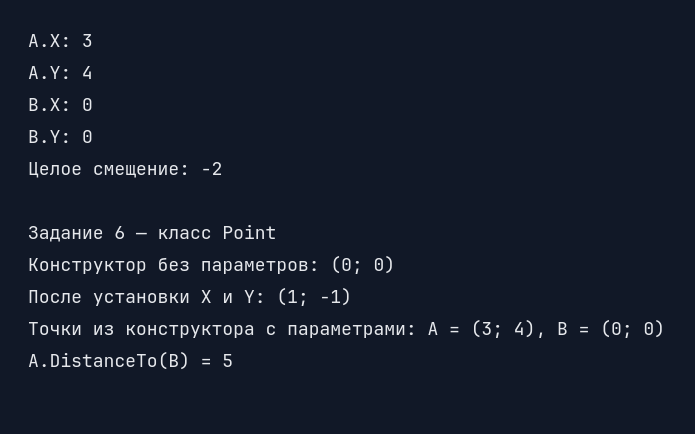
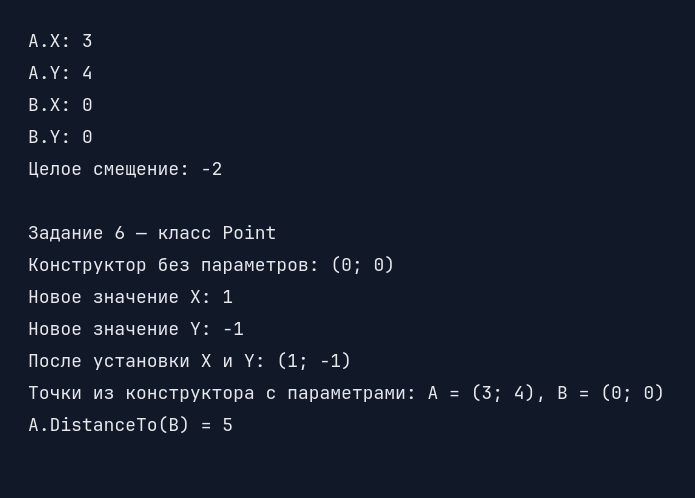
removed not needed

diff --git a/CSharpLabs/Lab4/Lab4.cs b/CSharpLabs/Lab4/Lab4.cs
@@ -1,4 +1,3 @@
-using System.Text;
 using CSharpLabs.Common;
 
 namespace CSharpLabs.Lab4;
@@ -16,9 +15,8 @@ internal static class Lab4
             Console.WriteLine("3 — Заказы посетителей кафе");
             Console.WriteLine("4 — Согласные, встречающиеся в одном слове");
             Console.WriteLine("5 — Лучшие участники многоборья");
-            Console.WriteLine("6 — Примеры заданий 1–5");
             Console.WriteLine("0 — Назад");
-            int choice = ConsoleInput.ReadInt("Выберите пункт: ", 0, 6);
+            int choice = ConsoleInput.ReadInt("Выберите пункт: ", 0, 5);
 
             if (choice == 0)
             {
@@ -27,17 +25,7 @@ internal static class Lab4
 
             try
             {
-                if (choice == 6)
-                {
-                    for (int task = 1; task <= 5; task++)
-                    {
-                        RunTask(task, true);
-                    }
-                }
-                else
-                {
-                    RunTask(choice, false);
-                }
+                RunTask(choice);
             }
             catch (Exception error) when (IsRecoverable(error))
             {
@@ -48,34 +36,34 @@ internal static class Lab4
         }
     }
 
-    private static void RunTask(int task, bool example)
+    private static void RunTask(int task)
     {
         Console.WriteLine($"\nЗадание {task}, вариант 3");
 
         switch (task)
         {
             case 1:
-                RunSortedLists(example);
+                RunSortedLists();
                 break;
             case 2:
-                RunEqualNeighbors(example);
+                RunEqualNeighbors();
                 break;
             case 3:
-                RunCafe(example);
+                RunCafe();
                 break;
             case 4:
-                RunConsonants(example);
+                RunConsonants();
                 break;
             case 5:
-                RunSports(example);
+                RunSports();
                 break;
         }
     }
 
-    private static void RunSortedLists(bool example)
+    private static void RunSortedLists()
     {
-        List<int> first = example ? new List<int> { -2, 1, 1, 5 } : ReadNumbers("L1", true);
-        List<int> second = example ? new List<int> { -3, 1, 4, 9 } : ReadNumbers("L2", true);
+        List<int> first = ReadNumbers("L1", true);
+        List<int> second = ReadNumbers("L2", true);
 
         PrintGroup("L1", first);
         PrintGroup("L2", second);
@@ -83,11 +71,9 @@ internal static class Lab4
         PrintGroup("После слияния", first);
     }
 
-    private static void RunEqualNeighbors(bool example)
+    private static void RunEqualNeighbors()
     {
-        LinkedList<int> list = example
-            ? new LinkedList<int>(new[] { 1, 2, 1, 2, 1 })
-            : new LinkedList<int>(ReadNumbers("L", false));
+        LinkedList<int> list = new LinkedList<int>(ReadNumbers("L", false));
 
         PrintGroup("L", list);
         Console.WriteLine($"Количество элементов с равными соседями: {CollectionTasks.CountEqualNeighbors(list)}");
@@ -135,26 +121,11 @@ internal static class Lab4
         }
     }
 
-    private static void RunCafe(bool example)
+    private static void RunCafe()
     {
         StringComparer comparer = StringComparer.OrdinalIgnoreCase;
-        List<string> menu;
-        List<HashSet<string>> orders;
-
-        if (example)
-        {
-            menu = new List<string> { "Борщ", "Салат", "Компот" };
-            orders = new List<HashSet<string>>
-            {
-                new HashSet<string>(comparer) { "Борщ", "Салат" },
-                new HashSet<string>(comparer) { "борщ" }
-            };
-        }
-        else
-        {
-            menu = ReadCafeMenu(comparer);
-            orders = ReadCafeOrders(new HashSet<string>(menu, comparer), comparer);
-        }
+        List<string> menu = ReadCafeMenu(comparer);
+        List<HashSet<string>> orders = ReadCafeOrders(new HashSet<string>(menu, comparer), comparer);
 
         PrintGroup("Меню", menu);
 
@@ -218,27 +189,10 @@ internal static class Lab4
         return orders;
     }
 
-    private static void RunConsonants(bool example)
+    private static void RunConsonants()
     {
-        if (!example)
-        {
-            PrintConsonants(ConsoleInput.ReadRequiredText("Путь к текстовому файлу: "));
-            return;
-        }
-
-        const string sample = "Кукушка, кот и ёж.";
-        string path = Path.GetTempFileName();
-
-        try
-        {
-            File.WriteAllText(path, sample, Encoding.UTF8);
-            Console.WriteLine(sample);
-            PrintConsonants(path);
-        }
-        finally
-        {
-            File.Delete(path);
-        }
+        string path = ConsoleInput.ReadRequiredText("Путь к текстовому файлу: ");
+        PrintConsonants(path);
     }
 
     private static void PrintConsonants(string path)
@@ -246,9 +200,9 @@ internal static class Lab4
         PrintGroup("Согласные ровно в одном слове", CollectionTasks.FindConsonantsInOneWord(path));
     }
 
-    private static void RunSports(bool example)
+    private static void RunSports()
     {
-        string? existingPath = example ? null : ConsoleInput.ReadOptionalText("Путь к файлу результатов (Enter — ввести с клавиатуры): ");
+        string? existingPath = ConsoleInput.ReadOptionalText("Путь к файлу результатов (Enter — ввести с клавиатуры): ");
 
         if (existingPath is not null)
         {
@@ -256,7 +210,7 @@ internal static class Lab4
             return;
         }
 
-        List<string> participants = example ? CreateExampleParticipants() : ReadParticipants();
+        List<string> participants = ReadParticipants();
 
         string path = Path.GetTempFileName();
 
@@ -264,29 +218,12 @@ internal static class Lab4
         {
             CollectionTasks.FillSportsFile(path, participants);
 
-            if (example)
-            {
-                Console.WriteLine(File.ReadAllText(path));
-            }
-
             PrintGroup("Лучшие участники", CollectionTasks.FindBestAthletes(path));
         }
         finally
         {
             File.Delete(path);
         }
-    }
-
-    private static List<string> CreateExampleParticipants()
-    {
-        return new List<string>
-        {
-            "Петров Сергей 9 9 5 7",
-            "Сидорова Анна 8 8 7 5",
-            "Иванова Мария 5 8 6 3",
-            "Смирнов Павел 4 6 4 8",
-            "Орлова Вера 1 2 3 4"
-        };
     }
 
     private static List<string> ReadParticipants()

diff --git a/Lab4.Points/Program.cs b/Lab4.Points/Program.cs
@@ -14,31 +14,17 @@ internal static class Program
                 ConsoleInput.ClearScreen();
                 Console.WriteLine("Лабораторная работа №4 — вариант 3, задания 6–7");
                 Console.WriteLine("1 — Ввести точки");
-                Console.WriteLine("2 — Запустить пример");
                 Console.WriteLine("0 — Выход");
-                int choice = ConsoleInput.ReadInt("Выберите пункт: ", 0, 2);
+                int choice = ConsoleInput.ReadInt("Выберите пункт: ", 0, 1);
 
                 if (choice == 0)
                 {
                     return;
                 }
 
-                Point a;
-                Point b;
-                int offset;
-
-                if (choice == 2)
-                {
-                    a = new Point(-2.75, 2);
-                    b = new Point(0.25, 6);
-                    offset = 3;
-                }
-                else
-                {
-                    a = ReadPoint("A");
-                    b = ReadPoint("B");
-                    offset = ConsoleInput.ReadInt("Целое смещение: ", int.MinValue, int.MaxValue);
-                }
+                Point a = ReadPoint("A");
+                Point b = ReadPoint("B");
+                int offset = ConsoleInput.ReadInt("Целое смещение: ", int.MinValue, int.MaxValue);
 
                 PrintPointDetails(a, b);
                 PrintOperatorResults(a, b, offset);
@@ -82,8 +68,8 @@ internal static class Program
         Point origin = new Point();
         Console.WriteLine("\nЗадание 6 — класс Point");
         Console.WriteLine($"Конструктор без параметров: {origin}");
-        origin.X = 1;
-        origin.Y = -1;
+        origin.X = ReadCoordinate("Новое значение X: ");
+        origin.Y = ReadCoordinate("Новое значение Y: ");
         Console.WriteLine($"После установки X и Y: {origin}");
         Console.WriteLine($"Точки из конструктора с параметрами: A = {a}, B = {b}");
         Console.WriteLine($"A.DistanceTo(B) = {a.DistanceTo(b)}");

diff --git a/labs/Lab4/Отчёт_ЛР4.md b/labs/Lab4/Отчёт_ЛР4.md
@@ -8,45 +8,35 @@
 
 | Задание | Решение | Пример |
 | --- | --- | --- |
-| 1. `List` | Два индекса последовательно обходят отсортированные списки. На каждом шаге в результат добавляется меньший из текущих элементов. После слияния результат заменяет содержимое `L1`. Повторы сохраняются. Время `O(n + m)`. | `[-2, 1, 1, 5]` и `[-3, 1, 4, 9]` → `[-3, -2, 1, 1, 1, 4, 5, 9]`. |
-| 2. `LinkedList` | Для каждого внутреннего узла сравниваются значения предыдущего и следующего. У крайних элементов нет двух соседей. | `[1, 2, 1, 2, 1]` → `3` элемента. |
-| 3. `HashSet` | `IntersectWith` находит блюда, заказанные всеми; `UnionWith` — хотя бы одним посетителем. `ExceptWith` вычитает из объединения пересечение (заказали некоторые), а из меню — объединение (не заказал никто). При отсутствии посетителей все блюда относятся к последней группе. | Два заказа: «Борщ; Салат» и «борщ». Все — борщ, некоторые — салат, никто — компот. |
-| 4. `HashSet` | UTF-8 файл читается построчно. Словом считается непрерывная последовательность русских букв. Регистр не учитывается. Множество убирает повторы внутри каждого слова. `ExceptWith` исключает из всех встреченных согласных те, которые были в нескольких словах. Результат выводится по порядку букв в алфавите. | «Кукушка, кот и ёж.» → `ж, т, ш`. Буква `к` встречается в двух словах. |
-| 5. `Dictionary` | Строки файла читаются один раз. Словарь сопоставляет каждой сумме список участников. Сумма от 0 до 40, поэтому достаточно проверить до 41 ключа по убыванию. Группы с равными баллами добавляются целиком, пока не выбраны как минимум трое. | При суммах `30, 28, 22, 22, 10` выводятся первые четыре участника. |
+| 1. `List` | Два индекса последовательно обходят отсортированные списки. На каждом шаге в результат добавляется меньший из текущих элементов. После слияния результат заменяет содержимое `L1`. Повторы сохраняются. Время `O(n + m)`. | `[-2, 0, 3]` и `[-1, 0, 4]` → `[-2, -1, 0, 0, 3, 4]`. |
+| 2. `LinkedList` | Для каждого внутреннего узла сравниваются значения предыдущего и следующего. У крайних элементов нет двух соседей. | `[1, 2, 1, 3, 1]` → `2` элемента. |
+| 3. `HashSet` | `IntersectWith` находит блюда, заказанные всеми; `UnionWith` — хотя бы одним посетителем. `ExceptWith` вычитает из объединения пересечение (заказали некоторые), а из меню — объединение (не заказал никто). При отсутствии посетителей все блюда относятся к последней группе. | Три заказа: «Борщ; Салат», «Борщ», «Борщ; Чай». Все — борщ, некоторые — салат и чай, никто — компот. |
+| 4. `HashSet` | UTF-8 файл читается построчно. Словом считается непрерывная последовательность русских букв. Регистр не учитывается. Множество убирает повторы внутри каждого слова. `ExceptWith` исключает из всех встреченных согласных те, которые были в нескольких словах. Результат выводится по порядку букв в алфавите. | «Мама, мир и дом.» → `д, р`. Буква `м` встречается в нескольких словах. |
+| 5. `Dictionary` | Строки файла читаются один раз. Словарь сопоставляет каждой сумме список участников. Сумма от 0 до 40, поэтому достаточно проверить до 41 ключа по убыванию. Группы с равными баллами добавляются целиком, пока не выбраны как минимум трое. | При суммах `40, 35, 30, 30` выводятся все четыре участника. |
 
 В задании 5 чтение и группировка занимают `O(N + 41)` времени при ограниченной длине строк. Дополнительная память — `O(N)`: при одинаковых баллах могут пройти все `N` участников. Сортировка не нужна. Метод `FillSportsFile` отдельно формирует исходный файл по введённым данным. Первая строка содержит число участников `N` от 0 до 100, следующие `N` строк имеют вид `Фамилия Имя Балл1 Балл2 Балл3 Балл4`. Каждый балл — целое число от 0 до 10.
 
 ### Примеры работы заданий 1–5
 
-Изображения показывают вывод программы при выборе пункта `6` и при ручном вводе. Введённые значения видны рядом с приглашениями; текст запусков сохранён в `screenshots/logs`.
+Изображения показывают запуски с ручным вводом. Введённые значения видны рядом с приглашениями; текст запусков сохранён в `screenshots/logs`. Значения на изображениях служат примерами для отчёта и не заданы в программе.
 
-**Задание 1. Слияние списков.** В готовом примере повторяющиеся значения сохраняются. При ручном вводе оба нуля также остаются в результате.
-
-![Готовый пример задания 1](screenshots/results/task1.png)
+**Задание 1. Слияние списков.** Оба нуля остаются в результате.
 
 ![Ручная проверка задания 1](screenshots/results/manual1.png)
 
-**Задание 2. Равные соседи.** В готовом списке подходят три внутренних узла. В ручном примере `[1, 2, 1, 3, 1]` подходят два.
-
-![Готовый пример задания 2](screenshots/results/task2.png)
+**Задание 2. Равные соседи.** В списке `[1, 2, 1, 3, 1]` подходят два внутренних узла.
 
 ![Ручная проверка задания 2](screenshots/results/manual2.png)
 
 **Задание 3. Заказы в кафе.** Ручная проверка с тремя посетителями показывает все три категории блюд: борщ заказали все, салат и чай — часть посетителей, компот — никто.
 
-![Готовый пример задания 3](screenshots/results/task3.png)
-
 ![Ручная проверка задания 3](screenshots/results/manual3.png)
 
-**Задание 4. Согласные.** Для готовой строки результат — `ж, т, ш`. В ручной проверке программа читает [текстовый файл](data/example_consonants.txt) «Мама, мир и дом.» и находит `д, р`.
-
-![Готовый пример задания 4](screenshots/results/task4.png)
+**Задание 4. Согласные.** Программа читает указанный пользователем [текстовый файл](data/example_consonants.txt) «Мама, мир и дом.» и находит `д, р`.
 
 ![Ручная проверка задания 4](screenshots/results/manual4.png)
 
-**Задание 5. Лучшие участники.** В обоих примерах на третьем месте равенство баллов, поэтому выведены четыре участника.
-
-![Готовый пример задания 5](screenshots/results/task5.png)
+**Задание 5. Лучшие участники.** На третьем месте равенство баллов, поэтому выведены четыре участника.
 
 ![Ручная проверка задания 5](screenshots/results/manual5.png)
 
@@ -54,31 +44,27 @@
 
 Два закрытых поля хранят координаты типа `double`. Свойства `X` и `Y` проверяют, что значения конечны. Конструктор без параметров создаёт точку `(0; 0)`, конструктор с параметрами принимает координаты. `ToString()` выводит обе координаты. `DistanceTo` вычисляет евклидово расстояние: `√((x₁ − x₂)² + (y₁ − y₂)²)`.
 
-Для `A = (-2.75; 2)` и `B = (0.25; 6)`:
+Для введённых `A = (3; 4)`, `B = (0; 0)` и смещения `-2`:
 
 | Операция | Результат |
 | --- | --- |
 | `A.DistanceTo(B)` | `5` |
-| `++A` | `(-1.75; 2)` |
-| `--A` | `(-3.75; 2)` |
-| `(int)A` | `-2`: дробная часть отбрасывается к нулю |
-| Неявное приведение `A` к `double` | `2`: значение `Y` |
+| `++A` | `(4; 4)` |
+| `--A` | `(2; 4)` |
+| `(int)A` | `3`: целая часть `X` |
+| Неявное приведение `A` к `double` | `4`: значение `Y` |
 | `A + B` | `5`: расстояние между точками |
-| `A + 3` и `3 + A` | `(0.25; 2)` |
+| `A + (-2)` и `(-2) + A` | `(1; 4)` |
 
 Каждая строка использует исходную `A`. Операторы смещения создают новую точку; `++` и `--` присваивают её переменной, не меняя объект, на который могли ссылаться другие переменные. Если целая часть `X` вне диапазона `int`, программа сообщает об ошибке приведения и продолжает показ остальных операций.
 
 ### Примеры работы заданий 6–7
 
-**Задание 6. Класс Point.** Готовый пример показывает оба конструктора, изменение свойств и расстояние между `A = (-2.75; 2)` и `B = (0.25; 6)`. При ручном вводе для `A = (3; 4)` и `B = (0; 0)` расстояние равно `5`.
-
-![Готовый пример задания 6](screenshots/results/task6.png)
+**Задание 6. Класс Point.** Конструктор без параметров создаёт точку `(0; 0)`, затем пользователь вводит новые значения её свойств. Для введённых `A = (3; 4)` и `B = (0; 0)` расстояние равно `5`.
 
 ![Ручная проверка задания 6](screenshots/results/manual6.png)
 
-**Задание 7. Операторы Point.** Готовый пример использует смещение `3`. Ручная проверка использует те же точки, что в задании 6, и смещение `-2`: координата `X` становится равной `1`, а исходная точка остаётся `(3; 4)`.
-
-![Готовый пример задания 7](screenshots/results/task7.png)
+**Задание 7. Операторы Point.** Проверка использует те же введённые точки, что в задании 6, и смещение `-2`: координата `X` становится равной `1`, а исходная точка остаётся `(3; 4)`.
 
 ![Ручная проверка задания 7](screenshots/results/manual7.png)
 
@@ -90,4 +76,4 @@ dotnet run --project CSharpLabs/CSharpLabs.csproj
 dotnet run --project Lab4.Points/Lab4.Points.csproj
 ```
 
-В основном приложении выберите `4`, затем `1`–`5` для ввода данных или `6` для показа примеров. В проекте `Lab4.Points` выберите `1` для ввода координат или `2` для показа всех операций на готовых данных.
+В основном приложении выберите `4`, затем `1`–`5` для ввода данных. В проекте `Lab4.Points` выберите `1` для ввода координат, смещения и значений свойств точки.

diff --git a/README.md b/README.md
@@ -42,7 +42,7 @@ CSharpLabs/
 Lab4.Points/
   Lab4.Points.csproj
   Point.cs               # задания 6–7
-  Program.cs             # ввод и демонстрация операций
+  Program.cs             # ввод точек и вывод результатов операций
 labs/
   Lab1/
     lab1_csharp.pdf
@@ -82,9 +82,9 @@ dotnet build CSharpLabs.sln
 dotnet run --project CSharpLabs/CSharpLabs.csproj
 ```
 
-Нужен .NET 10 SDK. В главном меню введите `1`, `2`, `3` или `4`; `0` завершает программу. В меню ЛР4 пункты `1`–`5` запускают задания с ручным вводом, а `6` показывает готовые примеры.
+Нужен .NET 10 SDK. В главном меню введите `1`, `2`, `3` или `4`; `0` завершает программу. В меню ЛР4 пункты `1`–`5` запускают задания с вводом данных.
 
-Задания 6–7 ЛР4 запускаются командой `dotnet run --project Lab4.Points/Lab4.Points.csproj`. Выберите `1` для ввода координат или `2` для готового примера.
+Задания 6–7 ЛР4 запускаются командой `dotnet run --project Lab4.Points/Lab4.Points.csproj`. Выберите `1` для ввода координат и значений свойств точки.
 
 В меню ЛР2 пункты 1–5 выводят примеры из условия, созданные из объектов. В обычном терминале экран очищается при переходе между меню; результат задания остаётся на экране до нажатия Enter. При перенаправлении ввода или вывода очистка и пауза отключены. Ввод номеров меню проверяется. Автосвойства, LINQ и лямбда-операторы не используются.
 
